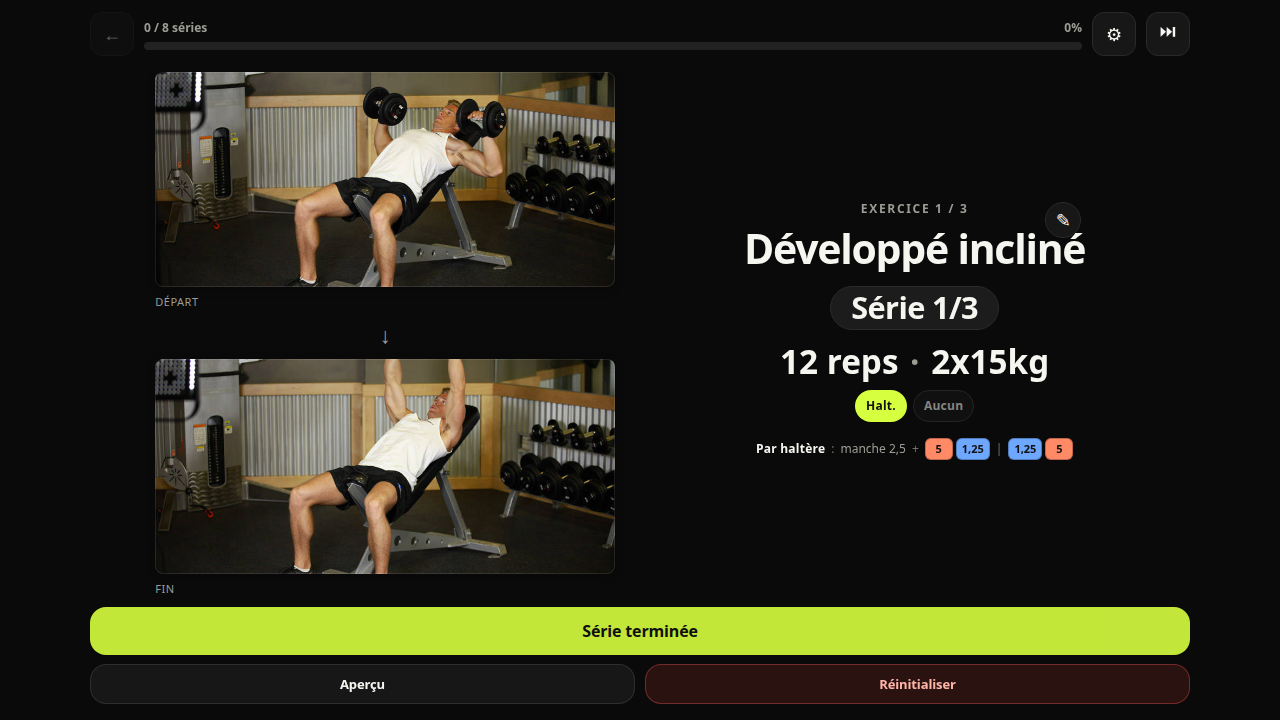
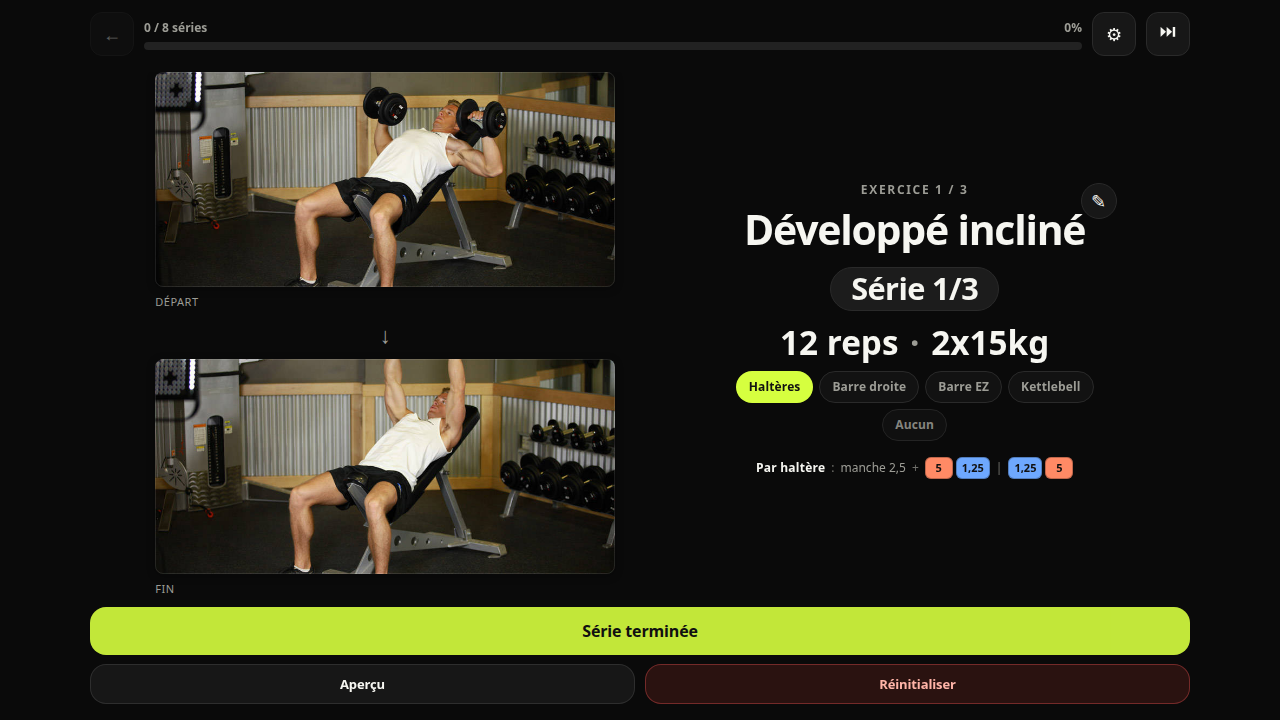
fix: noms complets sur les chips matériel + wrap mobile
Affiche Haltères / Barre droite / Barre EZ / Kettlebell / Aucun
au lieu des abréviations ; flex-wrap sur 390px si le kit est complet.

Changed region(s): [[0.5625, 0.2444, 0.875, 0.6722]]

diff --git a/src/utils/availableEquipmentTypes.ts b/src/utils/availableEquipmentTypes.ts
@@ -16,9 +16,18 @@ const AUCUN: EquipmentTypeOption = {
   calculates: false,
 };
 
+function opt(
+  value: ExerciseEquipmentType,
+  label: string,
+  calculates: boolean
+): EquipmentTypeOption {
+  return { value, label, shortLabel: label, calculates };
+}
+
 /**
  * Equipment types the user can pick during a session:
  * only bar/KB kinds present in inventory, plus « Aucun » to hide the loadout.
+ * Chip labels are full names (wrap on narrow viewports).
  */
 export function availableEquipmentTypeOptions(
   inventory: EquipmentInventory
@@ -30,38 +39,10 @@ export function availableEquipmentTypeOptions(
   const hasEz = inventory.bars.some((b) => b.kind === 'barre_ez' && b.quantity > 0);
   const hasKb = inventory.kettlebells.some((k) => k.quantity > 0);
 
-  if (hasHalt) {
-    options.push({
-      value: 'haltères',
-      label: 'Haltères',
-      shortLabel: 'Halt.',
-      calculates: true,
-    });
-  }
-  if (hasDroite) {
-    options.push({
-      value: 'barre_droite',
-      label: 'Barre droite',
-      shortLabel: 'Barre',
-      calculates: true,
-    });
-  }
-  if (hasEz) {
-    options.push({
-      value: 'barre_ez',
-      label: 'Barre EZ',
-      shortLabel: 'EZ',
-      calculates: true,
-    });
-  }
-  if (hasKb) {
-    options.push({
-      value: 'kettlebell',
-      label: 'Kettlebell',
-      shortLabel: 'KB',
-      calculates: true,
-    });
-  }
+  if (hasHalt) options.push(opt('haltères', 'Haltères', true));
+  if (hasDroite) options.push(opt('barre_droite', 'Barre droite', true));
+  if (hasEz) options.push(opt('barre_ez', 'Barre EZ', true));
+  if (hasKb) options.push(opt('kettlebell', 'Kettlebell', true));
 
   return [...options, AUCUN];
 }

diff --git a/src/index.css b/src/index.css
@@ -2344,20 +2344,23 @@ input[type='number']:focus {
   display: flex;
   flex-wrap: wrap;
   justify-content: center;
+  align-items: center;
   gap: 6px;
-  max-width: 100%;
+  max-width: min(100%, 360px);
+  margin-inline: auto;
 }
 
 .equip-chip {
   min-height: 32px;
-  padding: 0 10px;
+  padding: 0 12px;
   border-radius: 999px;
   border: 1px solid var(--line);
   background: var(--bg-2);
   color: var(--muted);
   font-size: 12px;
   font-weight: 700;
-  letter-spacing: 0.02em;
+  letter-spacing: 0.01em;
+  white-space: nowrap;
   touch-action: manipulation;
 }
 

diff --git a/src/components/EquipmentTypePicker.tsx b/src/components/EquipmentTypePicker.tsx
@@ -36,10 +36,9 @@ export function EquipmentTypePicker({
             className={`equip-chip${selected ? ' equip-chip--active' : ''}${
               opt.calculates ? '' : ' equip-chip--mute'
             }`}
-            title={opt.label}
             onClick={() => onChange(opt.value)}
           >
-            {opt.shortLabel}
+            {opt.label}
           </button>
         );
       })}
